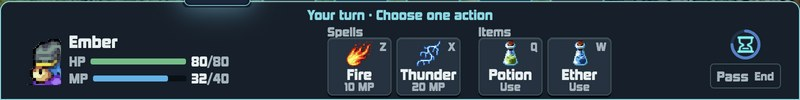
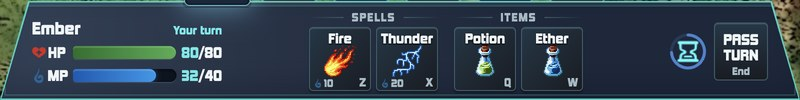
Restore original combat dock styling around central actions

diff --git a/client/src/components/HUD/PlayerBar.style.css b/client/src/components/HUD/PlayerBar.style.css
@@ -1,11 +1,9 @@
-/* Keep the existing dock footprint; commands now share its central surface. */
+/* Keep the original silhouette, slate surfaces and arcane teal trim. */
 .player_bar_container {
-  --dock-surface: oklch(24% 0.025 245);
-  --dock-raised: oklch(31% 0.032 245);
-  --dock-line: oklch(43% 0.035 225);
-  --dock-text: oklch(95% 0.01 210);
-  --dock-muted: oklch(76% 0.025 225);
-  --dock-accent: oklch(83% 0.10 205);
+  --dock-text: oklch(97% 0.008 210);
+  --dock-muted: oklch(78% 0.03 225);
+  --dock-accent: oklch(86% 0.12 195);
+  --dock-line: oklch(46% 0.045 220);
   position: fixed;
   bottom: 0;
   left: 50%;
@@ -21,108 +19,128 @@
   pointer-events: auto;
 }
 .player_bar {
+  position: relative;
   box-sizing: border-box;
   height: 100%;
-  padding: 5px 18px 7px;
-  background: var(--dock-surface);
-  border: 1px solid var(--dock-line);
-  border-radius: 10px 10px 0 0;
-  box-shadow: 0 -3px 14px oklch(12% 0.01 245 / 0.35), inset 0 1px oklch(90% 0.02 210 / 0.07);
-  display: flex;
-  flex-direction: column;
-  gap: 3px;
+  padding: 9px 32px 7px;
+  filter: drop-shadow(0 -2px 7px oklch(78% 0.13 185 / 0.15));
 }
-.player_bar_heading { display: flex; align-items: center; justify-content: center; gap: 12px; min-height: 16px; font-size: 0.8125rem; line-height: 1.1; color: var(--dock-muted); }
-.player_bar_container[data-active="true"] .player_bar { border-color: var(--dock-accent); }
-.player_bar_container[data-active="true"] .player_bar_turn_label { color: var(--dock-accent); animation: dock-turn-arrival 550ms ease-out; }
-.player_bar_cancel_hint { color: var(--dock-muted); font-size: 0.75rem; }
-.player_bar_body { display: flex; align-items: center; justify-content: space-between; gap: 18px; flex: 1; min-height: 0; }
-.player_bar_character { display: flex; align-items: center; gap: 8px; flex: 0 1 210px; min-width: 150px; }
-.player_bar_portrait { width: 42px; height: 52px; flex-shrink: 0; background-repeat: no-repeat; background-position: -43px -39px; image-rendering: pixelated; }
-.player_bar_stats { display: flex; flex-direction: column; gap: 4px; min-width: 0; flex: 1; }
-.player_bar_name { font-size: 1rem; font-weight: 500; line-height: 1.1; overflow: hidden; text-overflow: ellipsis; white-space: nowrap; }
-.player_bar_stat { display: flex; align-items: center; gap: 5px; font-size: 0.8125rem; line-height: 1; white-space: nowrap; }
-.player_bar_stat > span:first-child, .player_bar_max { color: var(--dock-muted); }
-.player_bar_stat meter { appearance: none; flex: 1; min-width: 18px; height: 6px; border: 0; border-radius: 2px; background: oklch(17% 0.02 245); }
-.player_bar_stat meter::-webkit-meter-bar { height: 6px; border: 0; border-radius: 2px; background: oklch(17% 0.02 245); }
-.player_bar_stat meter::-webkit-meter-optimum-value { background: oklch(73% 0.13 155); border-radius: 2px; }
-.player_bar_mana meter::-webkit-meter-optimum-value { background: oklch(73% 0.13 235); }
-.player_bar_stat meter::-moz-meter-bar { background: oklch(73% 0.13 155); }
-.player_bar_mana meter::-moz-meter-bar { background: oklch(73% 0.13 235); }
-.player_bar_statuses { display: flex; gap: 5px; }
+.player_bar::before, .player_bar::after {
+  content: '';
+  position: absolute;
+  pointer-events: none;
+  clip-path: polygon(28px 0, calc(100% - 28px) 0, 100% 100%, 0 100%);
+}
+.player_bar::before { inset: 0; background: oklch(78% 0.13 185); }
+.player_bar::after {
+  inset: 1.5px;
+  background: linear-gradient(90deg, oklch(37.2% 0.044 257) 0%, oklch(32% 0.04 258) 34%, oklch(27.9% 0.041 260) 70%);
+  outline: 1px solid oklch(78% 0.13 185 / 0.3);
+  outline-offset: -4px;
+  box-shadow: inset 0 3px 0 oklch(86% 0.12 195 / 0.1), inset 0 -12px 30px oklch(14% 0.035 260 / 0.25);
+}
+.player_bar_body { position: relative; z-index: 1; display: flex; align-items: center; justify-content: space-between; gap: 20px; height: 100%; }
+.player_bar_character { flex: 0 1 190px; min-width: 154px; }
+.player_bar_stats { display: flex; flex-direction: column; gap: 7px; }
+.player_bar_heading { display: flex; align-items: baseline; justify-content: space-between; gap: 8px; min-width: 0; line-height: 1.1; }
+.player_bar_name { font-size: 1rem; font-weight: 500; overflow: hidden; text-overflow: ellipsis; white-space: nowrap; }
+.player_bar_turn_label { color: var(--dock-muted); font-size: 0.6875rem; text-align: right; white-space: nowrap; }
+.player_bar_container[data-active="true"] .player_bar_turn_label { color: var(--dock-accent); }
+.player_bar_container[data-pending="true"] .player_bar_heading { flex-wrap: wrap; gap: 2px; }
+.player_bar_stat { display: grid; grid-template-columns: 36px minmax(24px, 1fr) auto; align-items: center; gap: 5px; font-size: 0.875rem; line-height: 1; white-space: nowrap; }
+.player_bar_stat_icon { display: flex; align-items: center; gap: 2px; }
+.player_bar_stat_icon img { width: 14px; height: 16px; object-fit: contain; }
+.player_bar_stat > span:last-child { color: var(--dock-accent); }
+.player_bar_max { color: var(--dock-text); }
+.player_bar_stat meter { appearance: none; width: 100%; height: 13px; border: 0; border-radius: 3px 7px 7px 3px; background: oklch(19% 0.025 250); }
+.player_bar_stat meter::-webkit-meter-bar { height: 13px; border: 0; border-radius: 3px 7px 7px 3px; background: oklch(19% 0.025 250); box-shadow: inset 0 1px 3px oklch(12% 0.01 250 / 0.7), 0 1px oklch(87% 0.03 210 / 0.12); }
+.player_bar_stat meter::-webkit-meter-optimum-value { border-radius: inherit; background: linear-gradient(90deg, oklch(48% 0.13 145), oklch(67% 0.16 145)); box-shadow: inset 0 2px oklch(86% 0.13 145 / 0.2), 0 0 6px oklch(67% 0.16 145 / 0.45); }
+.player_bar_mana meter::-webkit-meter-optimum-value { background: linear-gradient(90deg, oklch(48% 0.16 255), oklch(66% 0.16 245)); box-shadow: inset 0 2px oklch(86% 0.1 235 / 0.2), 0 0 6px oklch(66% 0.16 245 / 0.45); }
+.player_bar_stat meter::-moz-meter-bar { background: linear-gradient(90deg, oklch(48% 0.13 145), oklch(67% 0.16 145)); }
+.player_bar_mana meter::-moz-meter-bar { background: linear-gradient(90deg, oklch(48% 0.16 255), oklch(66% 0.16 245)); }
+.player_bar_stat > span.player_bar_mana_preview { color: oklch(78% 0.14 25); }
+.player_bar_statuses { display: flex; flex-wrap: wrap; gap: 4px; }
 .player_bar_statuses:empty { display: none; }
-.player_bar_statuses > span { display: inline-flex; align-items: center; gap: 2px; font-size: 0.75rem; }
+.player_bar_statuses > span { display: inline-flex; align-items: center; gap: 2px; font-size: 0.6875rem; }
 .player_bar_statuses img { width: 14px; height: 14px; object-fit: contain; image-rendering: pixelated; }
-.player_bar_actions_container { display: flex; justify-content: center; gap: 18px; min-width: 0; flex: 1; align-self: stretch; }
-.player_bar_action_group { display: flex; flex-direction: column; justify-content: center; gap: 3px; min-width: 0; }
-.player_bar_group_label { display: flex; align-items: center; gap: 8px; color: var(--dock-muted); font-size: 0.75rem; line-height: 1; }
-.player_bar_group_label > span { color: oklch(82% 0.11 25); }
-.player_bar_actions { display: flex; align-items: center; gap: 5px; min-height: 0; }
+.player_bar_actions_container { display: flex; justify-content: center; gap: 16px; min-width: 0; flex: 1; align-items: center; }
+.player_bar_action_group { display: flex; flex-direction: column; gap: 4px; min-width: 0; }
+.player_bar_group_label { display: flex; align-items: center; justify-content: center; gap: 8px; color: var(--dock-muted); font-size: 0.6875rem; line-height: 1; letter-spacing: 0.09em; text-transform: uppercase; }
+.player_bar_group_label::before, .player_bar_group_label::after { content: ''; height: 1px; flex: 1; background: linear-gradient(90deg, transparent, var(--dock-line)); }
+.player_bar_group_label::after { transform: rotate(180deg); }
+.player_bar_group_label > span { color: oklch(78% 0.14 25); letter-spacing: 0; }
+.player_bar_actions { display: flex; align-items: center; gap: 5px; }
 .player_bar_action {
   position: relative;
   box-sizing: border-box;
   display: flex;
   flex-direction: column;
   align-items: center;
-  justify-content: center;
-  gap: 1px;
-  flex: 0 1 64px;
-  width: 64px;
-  min-width: 48px;
-  height: 58px;
-  padding: 2px 3px;
+  justify-content: flex-start;
+  flex: 0 1 3.875rem;
+  width: 3.875rem;
+  min-width: 40px;
+  height: 4rem;
+  padding: 4px 2px 13px;
   border: 1px solid var(--dock-line);
-  border-radius: 5px;
-  background: var(--dock-raised);
-  box-shadow: inset 0 1px oklch(95% 0.01 210 / 0.10), 0 2px 0 oklch(15% 0.015 245);
+  border-radius: 4px;
+  background: linear-gradient(135deg, oklch(33% 0.04 240), oklch(23% 0.015 260));
+  box-shadow: inset 0 1px oklch(86% 0.05 210 / 0.16), 0 2px 2px oklch(12% 0.015 250 / 0.4);
   color: var(--dock-text);
   cursor: var(--game-pointer);
   font-family: inherit;
-  transition: background-color 150ms ease-out, border-color 150ms ease-out;
+  transition: border-color 150ms ease-out, box-shadow 150ms ease-out, background-color 150ms ease-out;
 }
-.player_bar_action:hover, .player_bar_action:focus-visible { background: oklch(37% 0.045 235); border-color: var(--dock-accent); }
+.player_bar_action:hover, .player_bar_action:focus-visible, .player_bar_pass_turn:hover:not(:disabled) { border-color: var(--dock-accent); box-shadow: 0 0 10px oklch(86% 0.12 195 / 0.28), inset 0 0 12px oklch(86% 0.12 195 / 0.08); }
 .player_bar_action:focus-visible, .player_bar_pass_turn:focus-visible { outline: 2px solid var(--dock-accent); outline-offset: 3px; }
-.player_bar_action.pending-action { background: oklch(36% 0.06 220); border-color: var(--dock-accent); box-shadow: inset 0 0 0 1px var(--dock-accent); }
-.player_bar_action[aria-disabled="true"] { background: oklch(26% 0.015 245); color: var(--dock-muted); box-shadow: none; }
-.player_bar_action_art { height: 26px; width: 100%; display: flex; justify-content: center; align-items: center; }
-.player_bar_item-icon { height: 26px; width: 32px; background-repeat: no-repeat; background-position: center; image-rendering: pixelated; }
-.player_bar_item-icon-off { filter: grayscale(0.85); opacity: 0.6; }
-.player_bar_key-binding { position: absolute; top: 3px; right: 4px; font-size: 0.6875rem; line-height: 1; color: var(--dock-muted); }
-.player_bar_action_name { max-width: 100%; overflow: hidden; text-overflow: ellipsis; white-space: nowrap; font-size: 0.875rem; line-height: 1; }
-.player_bar_action_cost { color: var(--dock-muted); font-size: 0.6875rem; line-height: 1; }
-.player_bar_action_cost.insufficient-mp { color: oklch(82% 0.11 25); }
-.player_bar_empty { max-width: 110px; color: var(--dock-muted); font-size: 0.875rem; line-height: 1.3; }
-.player_bar_controls { display: flex; flex-direction: column; align-items: center; gap: 4px; flex-shrink: 0; }
-.player_bar_controls .circular_timer { width: 30px; height: 30px; }
-.player_bar_controls .circular_timer_icon { width: 17px; height: 17px; }
-.player_bar_pass_turn { display: flex; align-items: center; justify-content: center; gap: 6px; min-width: 58px; min-height: 25px; padding: 3px 6px; color: var(--dock-muted); background: transparent; border: 1px solid var(--dock-line); border-radius: 4px; font: inherit; font-size: 0.8125rem; cursor: var(--game-pointer); }
-.player_bar_pass_turn:hover:not(:disabled) { border-color: var(--dock-accent); color: var(--dock-text); }
+.player_bar_action:active:not([aria-disabled="true"]), .player_bar_pass_turn:active:not(:disabled) { transform: translateY(1px); }
+.player_bar_action.pending-action { border-color: var(--dock-accent); background: linear-gradient(135deg, oklch(41% 0.08 220), oklch(26% 0.04 235)); box-shadow: inset 0 0 0 1px oklch(86% 0.12 195 / 0.5), 0 0 12px oklch(86% 0.12 195 / 0.25); }
+.player_bar_action[aria-disabled="true"] { color: var(--dock-muted); }
+.player_bar_action_art { flex-shrink: 0; order: 1; width: 100%; height: 32px; display: flex; justify-content: center; align-items: center; }
+.player_bar_item-icon { height: 32px; width: 32px; background-size: 32px; background-repeat: no-repeat; background-position: center; image-rendering: pixelated; }
+.player_bar_item-icon-off { filter: grayscale(0.6); opacity: 0.7; }
+.player_bar_key-binding { position: absolute; bottom: 2px; right: 4px; font-size: 0.6875rem; line-height: 1; color: var(--dock-muted); }
+.player_bar_action_name { flex-shrink: 0; max-width: 100%; overflow: hidden; text-overflow: ellipsis; white-space: nowrap; font-size: 0.8125rem; line-height: 1; text-shadow: 0 1px 2px oklch(12% 0.015 250); }
+.player_bar_action_cost { display: flex; align-items: center; gap: 2px; position: absolute; bottom: 2px; left: 4px; color: var(--dock-muted); font-size: 0.625rem; line-height: 1; }
+.player_bar_action_cost img { width: 8px; height: 10px; object-fit: contain; }
+.player_bar_action_cost.insufficient-mp { color: oklch(78% 0.14 25); }
+.player_bar_empty { max-width: 110px; color: var(--dock-muted); font-size: 0.8125rem; line-height: 1.3; }
+.player_bar_controls { display: flex; align-items: center; gap: 8px; flex-shrink: 0; }
+.player_bar_pass_turn { position: relative; display: flex; flex-direction: column; align-items: center; justify-content: center; box-sizing: border-box; width: 3.375rem; height: 3.625rem; padding: 4px 4px 12px; color: var(--dock-text); background: linear-gradient(180deg, oklch(33% 0.04 240), oklch(23% 0.015 260)); border: 1px solid var(--dock-line); border-radius: 4px; box-shadow: inset 0 1px oklch(86% 0.05 210 / 0.16); font: inherit; font-size: 0.875rem; line-height: 1.1; text-transform: uppercase; cursor: var(--game-pointer); }
 .player_bar_pass_turn:disabled { opacity: 0.5; cursor: default; }
-.player_bar_pass_key { font-size: 0.6875rem; }
-@keyframes dock-turn-arrival { from { opacity: 0.4; } to { opacity: 1; } }
-@media (prefers-reduced-motion: reduce) { .player_bar_container[data-active="true"] .player_bar_turn_label { animation: none; } .player_bar_action { transition: none; } }
-/* Match the previous outer dimensions at each supported desktop size. */
+.player_bar_pass_key { position: absolute; bottom: 3px; font-size: 0.625rem; color: var(--dock-muted); text-transform: none; }
+@media (prefers-reduced-motion: reduce) { .player_bar_action { transition: none; } }
+/* Preserve the original dock footprint at each supported desktop size. */
 @media screen and (max-width: 1500px) and (orientation: landscape) { .player_bar_container { width: 65%; transform: translateX(-50%) scale(0.95); transform-origin: bottom center; } }
 @media screen and (max-width: 1440px) { .player_bar_container { width: 75%; transform: translateX(-50%) scale(0.85); } }
 @media screen and (max-width: 1366px) { .player_bar_container { width: 80%; transform: translateX(-50%) scale(0.8); } }
 @media screen and (max-width: 1100px) and (orientation: landscape) { .player_bar_container { width: 90%; transform: translateX(-50%) scale(0.75); } }
 @media screen and (max-width: 980px) and (orientation: landscape) { .player_bar_container { width: 95%; transform: translateX(-50%) scale(0.65); } }
 @media screen and (max-height: 900px) { .player_bar_container { height: 11vh; } }
-@media screen and (max-height: 768px) { .player_bar_container { height: 12vh; } }
 @media screen and (max-height: 768px) {
-  .player_bar { padding-block: 3px; gap: 1px; }
-  .player_bar_heading { min-height: 13px; }
-  .player_bar_action { height: 3rem; gap: 0; }
-  .player_bar_action_art { height: 18px; }
-  .player_bar_action_name { font-size: 0.8125rem; }
-  .player_bar_action_cost { font-size: 0.625rem; }
-  .player_bar_character { flex-basis: 170px; }
-  .player_bar_portrait { display: none; }
-  .player_bar_body, .player_bar_actions_container { gap: 12px; }
+  .player_bar_container { height: 12vh; }
+  .player_bar { padding-block: 4px; }
+  .player_bar_stats { gap: 5px; }
+  .player_bar_body { gap: 16px; }
+  .player_bar_action { height: 3.75rem; padding-top: 2px; }
+  .player_bar_action_group { gap: 3px; }
+  .player_bar_action_art { height: 28px; }
+  .player_bar_item-icon { width: 28px; height: 28px; background-size: 28px; }
 }
 @media screen and (max-height: 600px) {
-  .player_bar { padding-block: 2px; gap: 0; }
-  .player_bar_heading { min-height: 12px; font-size: 0.75rem; }
-  .player_bar_action_group { gap: 1px; }
-  .player_bar_group_label { font-size: 0.6875rem; }
+  .player_bar { padding-inline: 28px; }
+  .player_bar_body { gap: 12px; }
+  .player_bar_action { height: 3.5625rem; }
+  .player_bar_action_art { height: 26px; }
+  .player_bar_item-icon { width: 26px; height: 26px; background-size: 26px; }
+  .player_bar_group_label { font-size: 0.625rem; }
 }
+
+/* A full loadout borrows space from the side controls, not the battlefield. */
+.player_bar_container[data-dense="true"] .player_bar { padding-inline: 28px; }
+.player_bar_container[data-dense="true"] .player_bar_body { gap: 12px; }
+.player_bar_container[data-dense="true"] .player_bar_character { flex-basis: 160px; }
+.player_bar_container[data-dense="true"] .player_bar_controls { gap: 4px; }
+.player_bar_container[data-dense="true"] .player_bar_pass_turn { width: 46px; }
+.player_bar_container[data-dense="true"] .player_bar_action_name { font-size: 0.6875rem; }
+.player_bar_stats:has(.player_bar_statuses:not(:empty)) { gap: 3px; }

diff --git a/client/src/components/HUD/PlayerBar.tsx b/client/src/components/HUD/PlayerBar.tsx
@@ -4,7 +4,9 @@ import { PlayerProps } from '@legion/shared/interfaces';
 import { BaseItem } from '@legion/shared/BaseItem';
 import { BaseSpell } from '@legion/shared/BaseSpell';
 import { loadGameSettings } from '../../settings';
-import { getSpritePath, statusIcons } from '../utils';
+import { statusIcons } from '../utils';
+import hpIcon from '@assets/stats_icons/hp_icon.png';
+import mpIcon from '@assets/stats_icons/mp_icon.png';
 import { ItemTooltip } from '../ItemTooltipContent';
 import { CircularTimer } from './CircularTimer';
 import ItemIcon from './NewItemIcon';
@@ -44,7 +46,7 @@ class PlayerBar extends Component<PlayerBarProps> {
     const muted = isSpell && player?.statuses[StatusEffect.MUTE] !== 0;
     return (
       <section className="player_bar_action_group" aria-label={isSpell ? 'Spells' : 'Items'}>
-        <div className="player_bar_group_label">{isSpell ? 'Spells' : 'Items'}{muted && <span>Silenced</span>}</div>
+        <div className="player_bar_group_label">{pending != null && canAct ? 'Esc to cancel' : isSpell ? 'Spells' : 'Items'}{muted && <span>Silenced</span>}</div>
         <div className="player_bar_actions">
           {actions.map((action, index) => {
             const cost = 'cost' in action ? action.cost : null;
@@ -69,7 +71,7 @@ class PlayerBar extends Component<PlayerBarProps> {
               >
                 <ItemIcon action={action} index={index} canAct={!unavailable} actionType={type} keyboardLayout={this.state.keyboardLayout} />
                 <span className="player_bar_action_name">{action.name}</span>
-                <span className={`player_bar_action_cost ${lowMP ? 'insufficient-mp' : ''}`}>{cost !== null ? `${cost} MP` : 'Use'}</span>
+                {cost !== null && <span className={`player_bar_action_cost ${lowMP ? 'insufficient-mp' : ''}`}><img src={mpIcon} alt="MP" />{cost}</span>}
               </button>
             );
           })}
@@ -85,30 +87,28 @@ class PlayerBar extends Component<PlayerBarProps> {
     const spellsIndex = layout.indexOf(this.state.keyboardLayout === 0 ? 'W' : 'Z');
     const pending = canAct && (player.pendingSpell != null ? spells[player.pendingSpell] : items[player.pendingItem]);
     const condition = player?.hp <= 0 ? 'Knocked out' : player?.isParalyzed ? 'Unable to act' : player?.casting ? 'Casting' : '';
-    const instruction = !isPlayerTurn ? `Enemy turn${player ? ` · Viewing ${player.name}` : ''}` : condition || (pending ? `${pending.name} · Select a target` : canAct ? 'Your turn · Choose one action' : 'Viewing character');
+    const instruction = !isPlayerTurn ? 'Enemy turn' : condition || (pending ? 'Select a target' : canAct ? 'Your turn' : 'Inspecting');
     const previewMP = pending && 'cost' in pending ? player.mp - pending.cost : player?.mp;
 
     return (
       <>
-      <section className="player_bar_container" aria-label="Combat commands" data-active={canAct}>
+      <section className="player_bar_container" aria-label="Combat commands" data-active={canAct} data-pending={Boolean(pending)} data-dense={spells.length + items.length > 6}>
         <div className="player_bar">
-          <div className="player_bar_heading" key={turnNumber}>
-            <span className="player_bar_turn_label" role="status">{instruction}</span>
-            {pending && <span className="player_bar_cancel_hint">Esc to cancel</span>}
-          </div>
           <div className="player_bar_body">
             <div className="player_bar_character">
-              {player && <div className="player_bar_portrait" aria-hidden="true" style={{backgroundImage: `url(${getSpritePath(player.portrait)})`}} />}
               <div className="player_bar_stats">
-                <strong className="player_bar_name">{player?.name || 'Waiting for combat'}</strong>
+                <div className="player_bar_heading" key={turnNumber}>
+                  <strong className="player_bar_name">{player?.name || 'Combat'}</strong>
+                  <span className="player_bar_turn_label" role="status">{instruction}</span>
+                </div>
                 {player && <>
                   <div className="player_bar_stat">
-                    <span>HP</span><meter min={0} max={player.maxHp || 1} value={player.hp} aria-label="Health" />
+                    <span className="player_bar_stat_icon"><img src={hpIcon} alt="" />HP</span><meter min={0} max={player.maxHp || 1} value={player.hp} aria-label="Health" />
                     <span>{player.hp}<span className="player_bar_max">/{player.maxHp}</span></span>
                   </div>
                   {spells.length > 0 && <div className="player_bar_stat player_bar_mana">
-                    <span>MP</span><meter min={0} max={player.maxMp || 1} value={previewMP} aria-label="Mana after selected spell" />
-                    <span>{previewMP}<span className="player_bar_max">/{player.maxMp}</span></span>
+                    <span className="player_bar_stat_icon"><img src={mpIcon} alt="" />MP</span><meter min={0} max={player.maxMp || 1} value={previewMP} aria-label="Mana after selected spell" />
+                    <span className={pending && 'cost' in pending ? 'player_bar_mana_preview' : ''}>{previewMP}<span className="player_bar_max">/{player.maxMp}</span></span>
                   </div>}
                 </>}
                 <div className="player_bar_statuses">
@@ -125,9 +125,9 @@ class PlayerBar extends Component<PlayerBarProps> {
               {this.renderActionRow(items, 0, InventoryType.CONSUMABLES)}
             </div>
             <div className="player_bar_controls">
-              <CircularTimer turnDuration={turnDuration} timeLeft={timeLeft} turnNumber={turnNumber} size={30} strokeWidth={3} />
+              <CircularTimer turnDuration={turnDuration} timeLeft={timeLeft} turnNumber={turnNumber} size={36} strokeWidth={3} />
               <button type="button" data-game-control className="player_bar_pass_turn" onClick={onPassTurn} disabled={!canAct || Boolean(pending)}>
-                Pass <span className="player_bar_pass_key">End</span>
+                <span>Pass</span><span>Turn</span><span className="player_bar_pass_key">End</span>
               </button>
             </div>
           </div>

diff --git a/client/src/components/GuidePage.tsx b/client/src/components/GuidePage.tsx
@@ -81,7 +81,7 @@ export default function GuidePage({onClose}: {onClose?: () => void}) {
               <div><dt>Attack</dt><dd>Click an adjacent enemy for a melee attack. Clicking a distant enemy moves you toward them instead; it does not grant a free attack.</dd></div>
               <div><dt>Cast</dt><dd>Choose a spell in the centre of the bottom command dock, check its highlighted area, then click a valid target or tile. Each spell shows its MP cost; casting spends MP.</dd></div>
               <div><dt>Use an item</dt><dd>Click an equipped consumable. Self-use items such as Potion and Ether activate immediately; targeted items ask you to choose a target.</dd></div>
-              <div><dt>Pass</dt><dd>Click <strong>Pass</strong> beneath the hourglass timer or press <kbd>End</kbd> to give up this action. A deliberate pass recovers sooner than a timeout.</dd></div>
+              <div><dt>Pass</dt><dd>Click <strong>Pass Turn</strong> beside the hourglass timer or press <kbd>End</kbd> to give up this action. A deliberate pass recovers sooner than a timeout.</dd></div>
             </dl>
             <p>Clicks outside the targeting range are ignored. Choose another target, or press <kbd>Esc</kbd> to cancel targeting and move or pass instead.</p>
             <figure>

diff --git a/client/src/components/HUD/NewItemIcon.tsx b/client/src/components/HUD/NewItemIcon.tsx
@@ -105,7 +105,6 @@ class ItemIcon extends Component<ItemIconProps, ItemIconState> {
             className={!canAct ? 'player_bar_item-icon player_bar_item-icon-off' : 'player_bar_item-icon player_bar_item-icon-pointer'}
             style={{
               backgroundImage: croppedImageUrl ? `url(${croppedImageUrl})` : 'none',
-              backgroundSize: '26px',
             }}
           />
         )}
